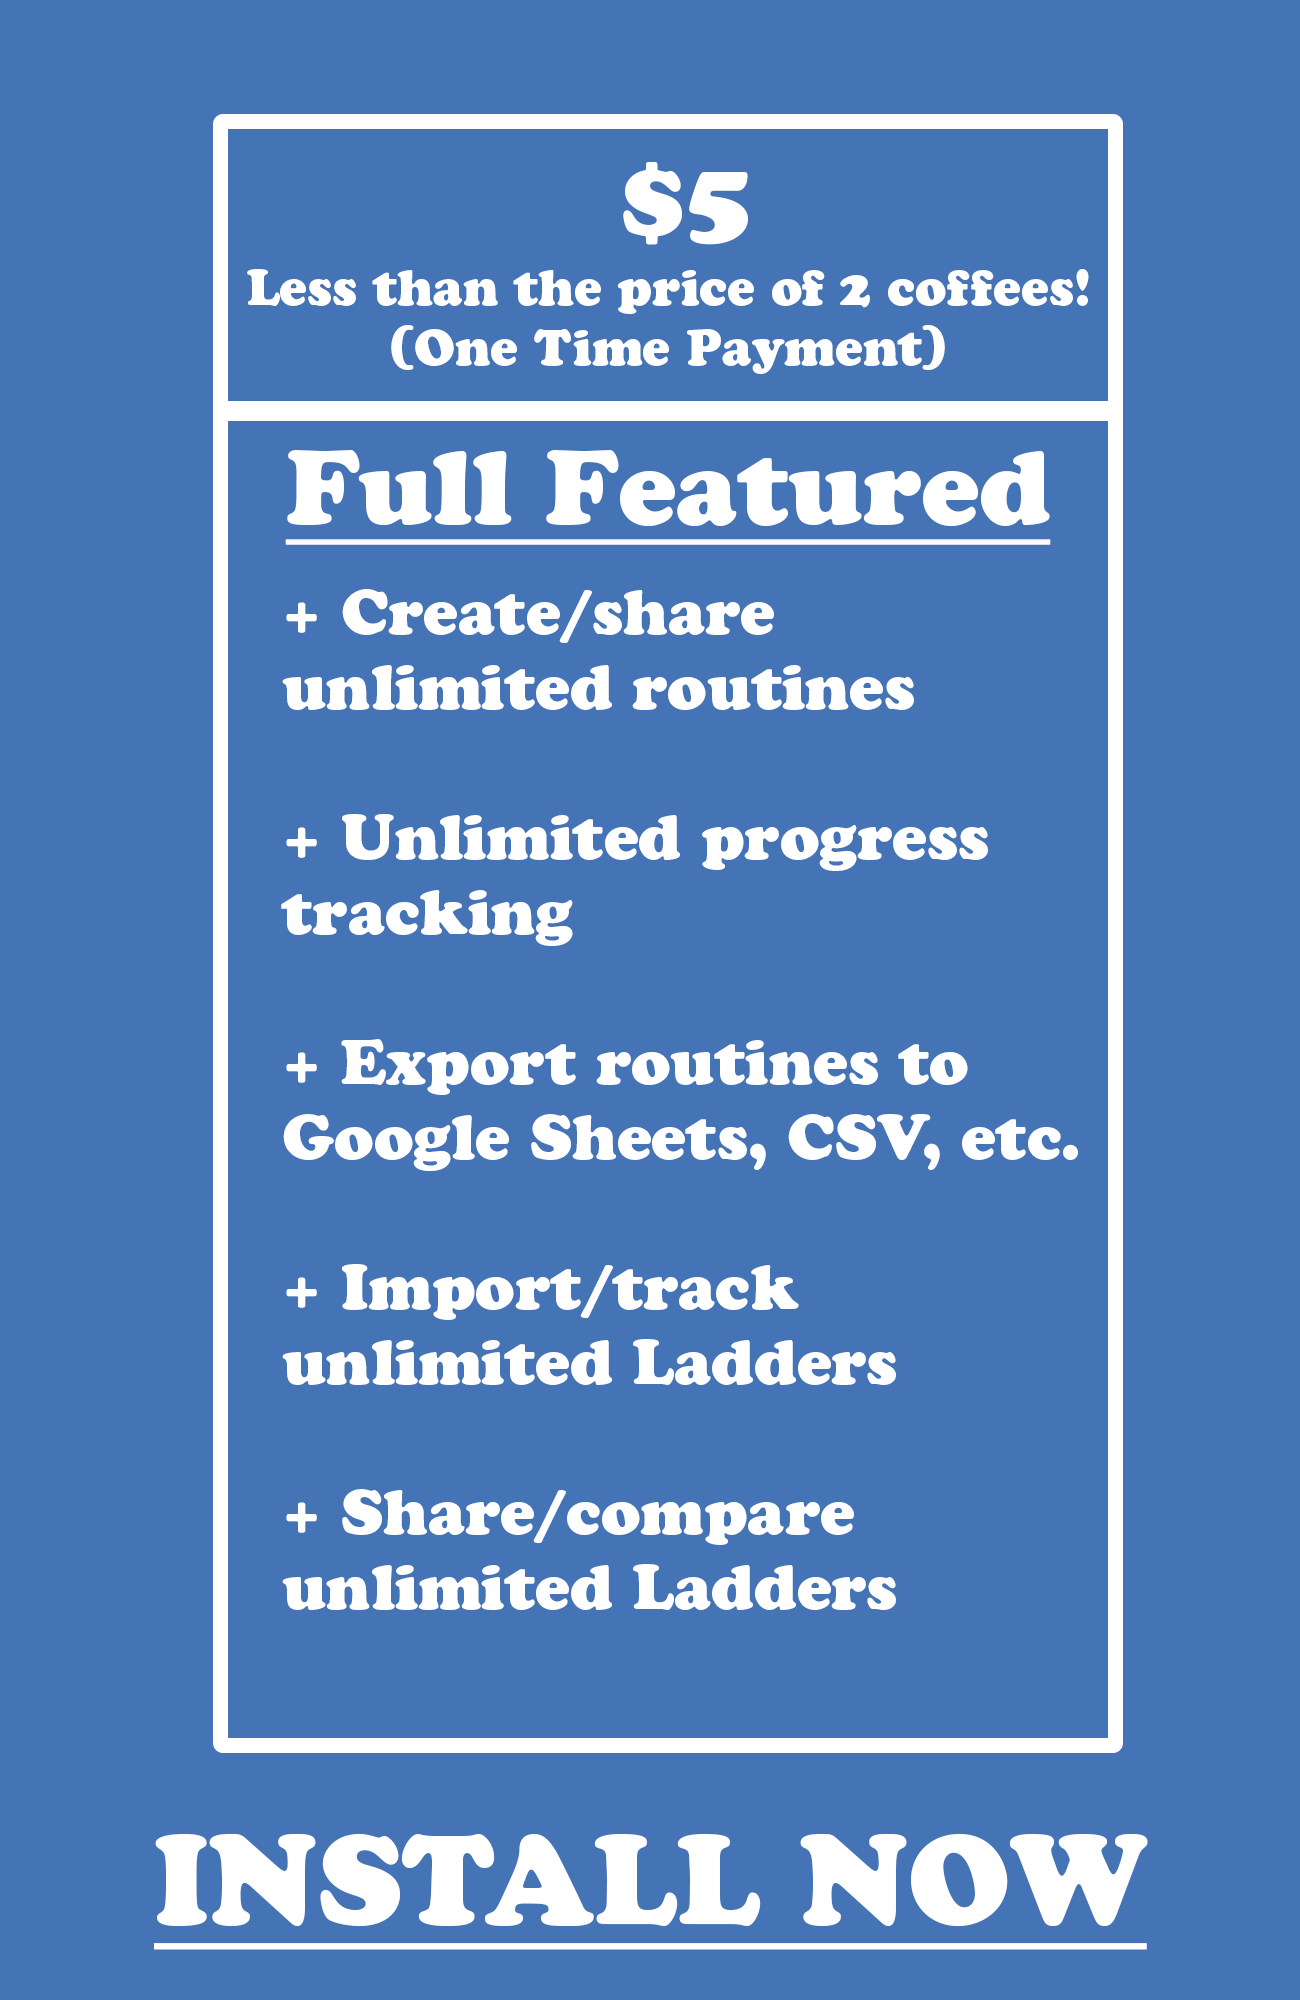
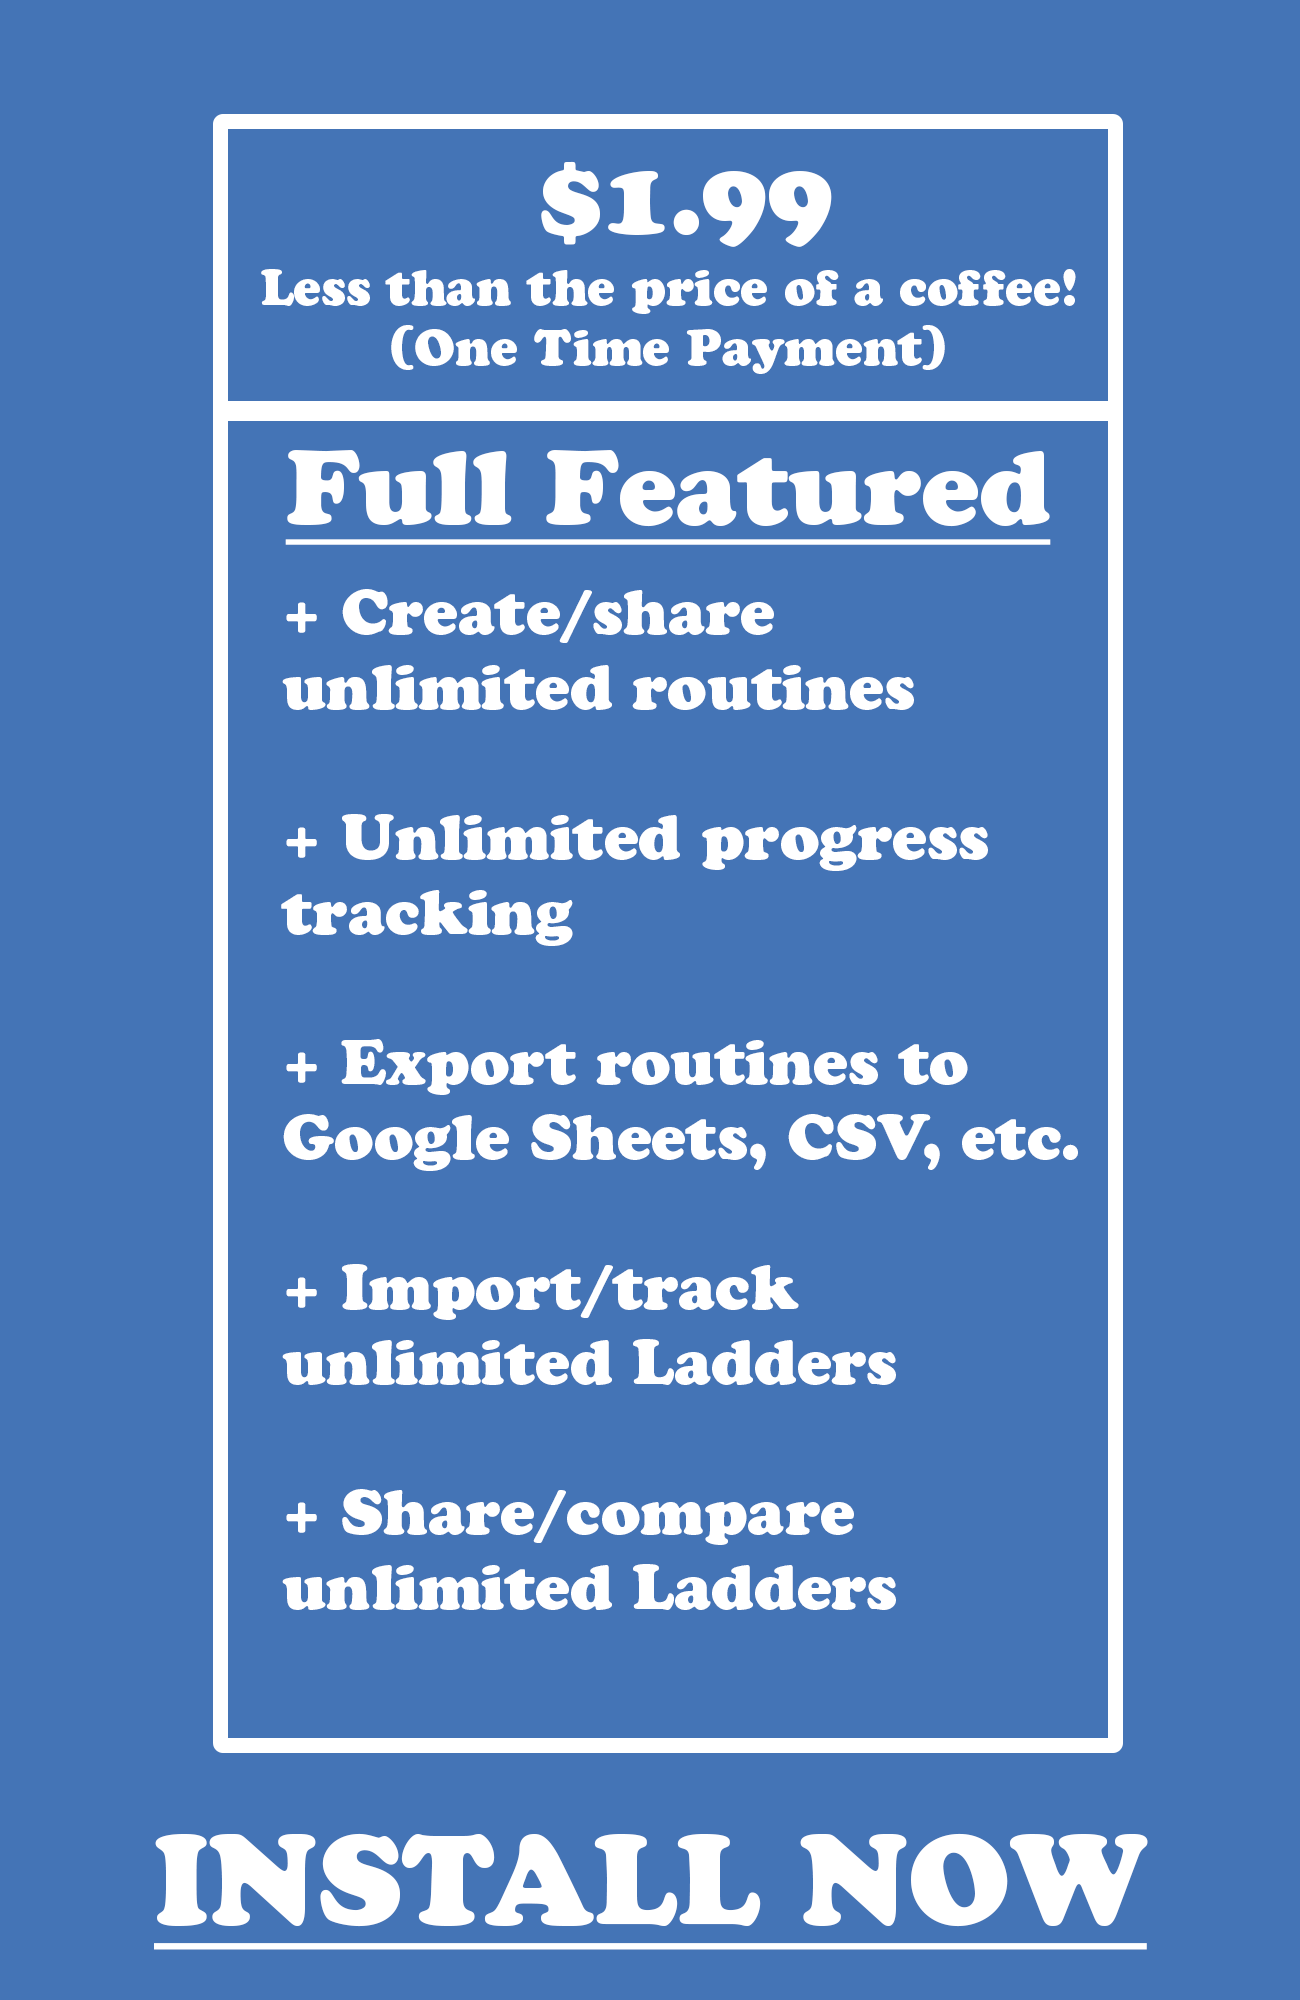
g

Changed region(s): [[0.1846, 0.062, 0.8308, 0.155]]

diff --git a/index.html b/index.html
@@ -144,7 +144,7 @@
     <div class="container">
       <div class="section-heading text-center">
         <h2 style="color:white;">Pricing</h2>
-        <input type="image" src="img/ProLanding.png" height="600" id="pro" />
+        <input type="image" src="img/ProLandingUpdate.png" height="600" id="pro" />
         <!-- <img id="pro" src="img/ProLandingUpdate.png" height="600"> -->
       </div>
     </div>
